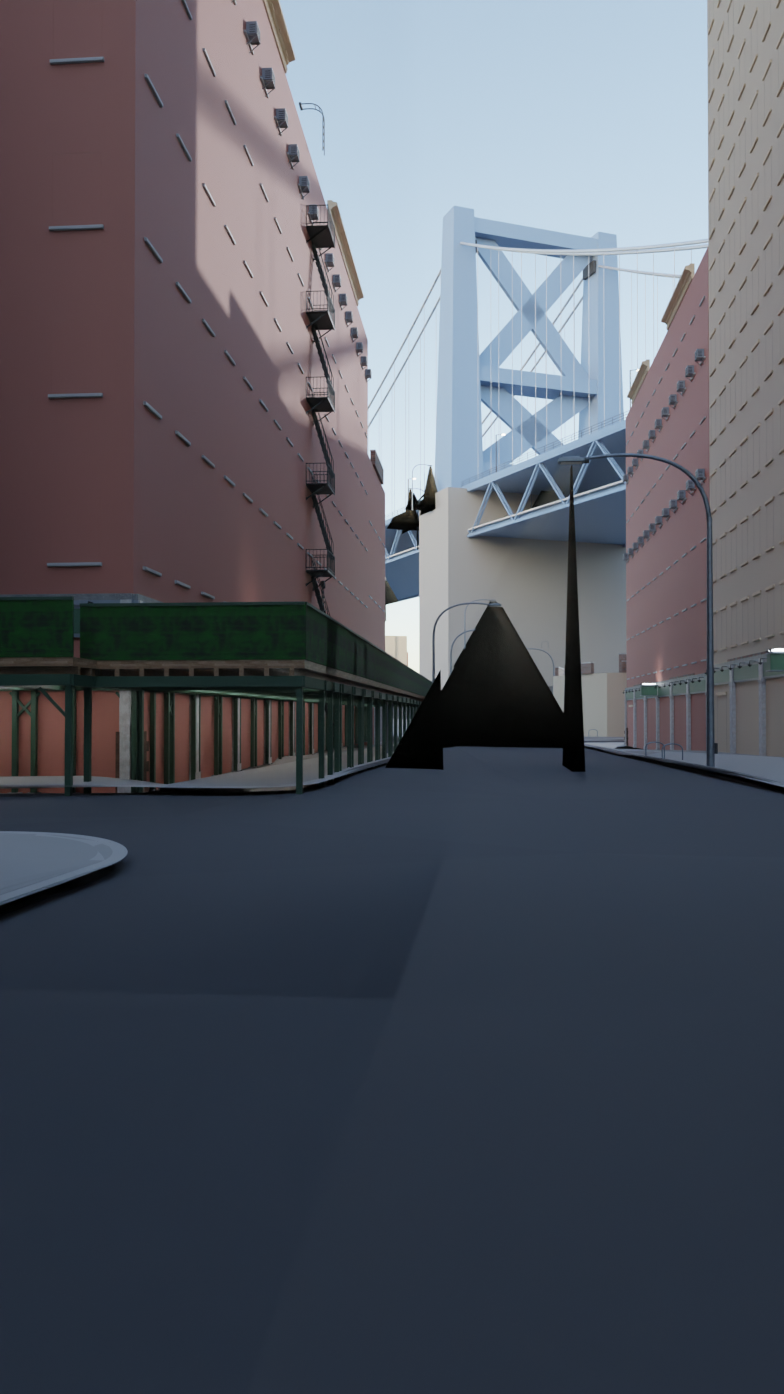
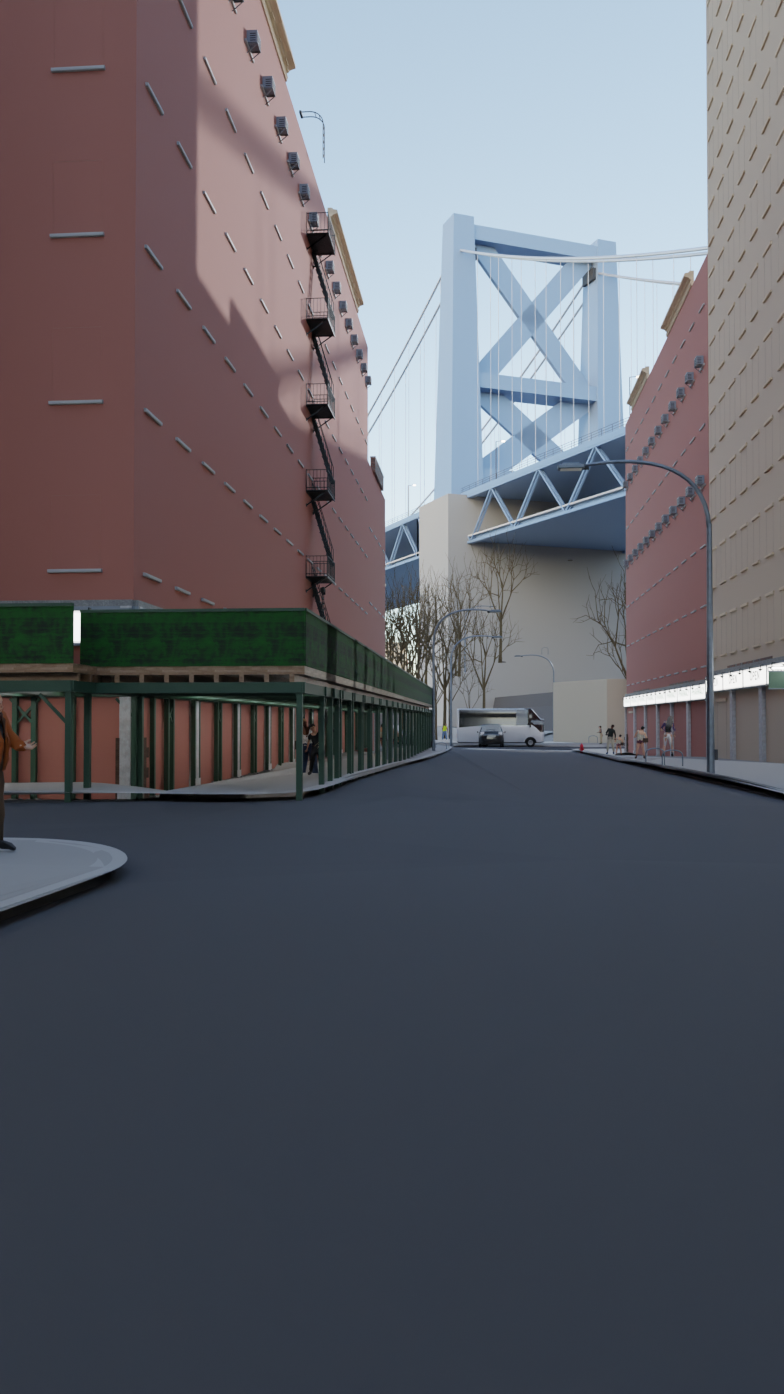
verify: DUMBO, a mandated viewpoint that works, and a correction to I17
Washington Street framing the Manhattan Bridge's Brooklyn tower is one of the
seven viewpoints the brief names, and the frame is the thing it is a picture of:
the tower centred in the gap between the warehouse blocks at its recorded 160 m,
truss and portal bracing and suspender cables reading correctly, both bridge
models in the scene, fire escapes down the brick flanks, a sidewalk shed on the
left, a van and a hydrant at the far kerb.  28 mm portrait at azimuth 357.1 deg,
which is what Washington Street runs.  The 223 street trees are bare, correctly -
leaf_off comes from the reference photograph's own date.

The weak half is the lower 45 % of the frame: empty asphalt with no texture and
no markings, where the photograph this view is famous for has cobbles leading the
eye to the tower.  That is the pavement-material gap, not a camera fault.

And the correction: I17 said the 2.6 m object in this camera's view cone was a
zelkova.  It is prop_lamp_cobra_davit_1, a lamp standard.  I took the example
from view_distance's docstring instead of reading this scene's record.  Both are
stepped past by the same rule, which counts only building shells and landmark
models, but the record says which and I should have looked.

Claude-Session: https://claude.ai/code/session_012rCzdfEp56Z5bDvSJLVsiQ

diff --git a/docs/DEVIATIONS.md b/docs/DEVIATIONS.md
@@ -172,7 +172,7 @@ the individual assessments, because together they are the honest answer to "is i
 | B15a | **The 30,381 real business names still do not appear on any sign.** They get a lit *blank* fascia panel. | An instanced kit piece carries one texture, so a single fascia mesh cannot render 30,381 different names; baking them would mean 30,381 unique pieces. The name stays in `awning_text` and DATA_CONTRACTS §6.1.1 now records where a runtime binds it to the `SIGN_FACE` slot. | A runtime text binding, which is engine-side work. Stated as a gap rather than solved, and the honesty line held: bulletin faces are blank vinyl and LED faces carry the pixel matrix of the display hardware and no image, so **no advertising copy was invented anywhere**. |
 | I13a | **The crowd cannot reach a plaza that is not beside a street.** The walkable network is derived from the road segments, so Bethesda Terrace gets **10 pedestrians against roughly eighty in its reference photograph** — and the terrace was not filled to hide it. Two smaller gaps in the same population: **cyclists, e-bike riders, moped riders and pedicab drivers are not drawn at all** (33 dropped in the Fifth Avenue frame alone), because the fleet table's 1.80 m height for `cyclist` is rider-plus-bicycle and the exported body is a 1.10 m bicycle — the rider is not exported, and a riderless bicycle rolling down Fifth Avenue would be worse than none; and **7 of the 18 vehicle classes are exported at a size the fleet table does not publish**, each recorded in `VEHICLE_ASSET_DEVIATIONS` with its measured deviation, with a test that fails both on a new deviation past 5 % and on a recorded row changing quietly. | `GameplayPedSim::buildSidewalks()` offsets road centrelines (H4); a park terrace, a pedestrian plaza and a boardwalk are none. | The planimetric sidewalk and plaza polygons, which are the same fix H4 asks for. The riders need a character body attached to the bicycle asset. |
 | I15 | ~~The agent clearance around the camera is set for "not inside the lens", not for "not filling the frame"~~ — **closed, after a frame turned up that was nothing but an NPC.** `blender/verify/agents.py` uses `CAMERA_CLEAR_PED_M = 1.5` and `CAMERA_CLEAR_VEHICLE_M = 6.0`, and they do exactly what they say — no agent stands inside those radii. On `drive_bronx_grand_concourse` the result is that the right third of a portrait frame is the backs of four people: measured against that camera (42.2° horizontal, azimuth 25.0°), one pedestrian sits at **1.50 m and 27.9° off axis — one centimetre above the cut-off** — and the nearest one actually in frame is at **2.57 m, 21.0° off axis**, with more at 3.39 m and 4.41 m. At a 1.6 m eye and a 42° lens a body at 2.57 m fills about a third of the frame height. | The rule was written to stop an agent being rendered inside the camera, which is a rendering question, and it answers that correctly. A comparison sheet needs a different question answered — whether a person dominates the frame — and nothing asks it. It was invisible until this pass because an empty scene cannot have anyone standing in it. | **`drive_midtown_sixth_ave_45th` settled it: the nearest pedestrian stood at 1 m and the frame was one NPC's torso — no street, no buildings, no Sixth Avenue.** A person at 1 m subtends **261 %** of frame height at this set's 1.6 m eye and 38° vertical field. `CAMERA_CLEAR_PED_M` is now **3.5 m**, derived from the frame rather than picked: the frame is `0.69 × d` metres tall, a 1.8 m body fills all of it at 2.6 m, and 3.5 m puts it at 74 % — close, which a street photograph often is, without being the whole picture. `CAMERA_CLEAR_PED_BASIS` records the body height, field of view and frame share it came from, so a different lens re-derives it instead of re-guessing, and a test asserts the constant still matches its own basis and can only ever tighten. It stays a radius rather than a forward wedge because the placement runs before the final view azimuth is known. **And the constant was only half of it.** The re-render reported *no* pedestrian dropped over the observer on `drive_bronx_grand_concourse` while four still stood between 1.44 m and 2.57 m of the lens — because `add_agents` measures from the point the scene was built around, and the camera had moved 5.39 m since. Measured across the set, **26 of the 57 scenes have the camera away from the scene centre**: 5.4 m here, 11 m on Arthur Avenue, **166 m on One World Trade Center**, where `probe_origin` switched from the photograph's GPS to the nominal viewpoint. The clearance was guarding a point that in half the set is not where the camera ends up. `agents.cull_near_camera` now runs after the camera is final, removes what the placement could not know about, and folds the count into the same `dropped` keys so a reader sees one number per cause; a test asserts it uses the same radii as the placement and runs *after* `clear_of_geometry`. The cost is a fourth re-run of the pass. |
-| I17 | **The camera clearance test measures a ray, and a frame is not a ray.** `camera.view_distance` casts one line along the view azimuth at eye height and reports how far it runs before a building shell stops it; `min_view_m` accepts the viewpoint on that number. `drive_queens_bayside` passes it completely — *"the viewpoint is in open air on the ground and the camera was not moved; the nearest solid thing in the view cone is `t_15_7_vinyl_siding` 23.6 m away, and the view azimuth is clear for 150 m"* — and the frame is the blank side wall of a house filling the upper third over an untextured ground plane, with **none of the 73 vehicles, 263 pedestrians or 182 trees in the scene visible**. | The ray is looking down a gap between two houses. It is a correct measurement of a line and it is silent about the rest of the image, which is the part a reader sees. The same shape as every other fault found today: a real number that cannot fail in the way the thing it stands for can. | A coverage measure rather than a distance: sample the frame — a coarse grid of rays through the actual view frustum — and require some share of it to reach beyond a minimum distance, so a camera facing a wall through a slot is rejected however clear the slot is. Cheap, since the scene is already built when the check runs. **Scale, measured rather than guessed, and it is not 12 broken sheets:** across the 55 scenes with a clearance record, **12 have the ray clear for the full 150 m probe while something solid stands within 30 m of the lens**, and only 2 within 10 m. That signature is *not* by itself a fault — on `landmark_nypl` the thing 18.9 m away is the library, on `times_square_duffy_south_day` at 23.6 m it is the TKTS booth, and on `dumbo_washington_st_manhattan_bridge` the 2.6 m object is the zelkova the view rule deliberately looks past. It becomes a fault when the near object is not the subject, which the clearance record has no way to say. Bayside is that case; deciding which of the other 11 are needs the frames, not the record. |
+| I17 | **The camera clearance test measures a ray, and a frame is not a ray.** `camera.view_distance` casts one line along the view azimuth at eye height and reports how far it runs before a building shell stops it; `min_view_m` accepts the viewpoint on that number. `drive_queens_bayside` passes it completely — *"the viewpoint is in open air on the ground and the camera was not moved; the nearest solid thing in the view cone is `t_15_7_vinyl_siding` 23.6 m away, and the view azimuth is clear for 150 m"* — and the frame is the blank side wall of a house filling the upper third over an untextured ground plane, with **none of the 73 vehicles, 263 pedestrians or 182 trees in the scene visible**. | The ray is looking down a gap between two houses. It is a correct measurement of a line and it is silent about the rest of the image, which is the part a reader sees. The same shape as every other fault found today: a real number that cannot fail in the way the thing it stands for can. | A coverage measure rather than a distance: sample the frame — a coarse grid of rays through the actual view frustum — and require some share of it to reach beyond a minimum distance, so a camera facing a wall through a slot is rejected however clear the slot is. Cheap, since the scene is already built when the check runs. **Scale, measured rather than guessed, and it is not 12 broken sheets:** across the 55 scenes with a clearance record, **12 have the ray clear for the full 150 m probe while something solid stands within 30 m of the lens**, and only 2 within 10 m. That signature is *not* by itself a fault — on `landmark_nypl` the thing 18.9 m away is the library, on `times_square_duffy_south_day` at 23.6 m it is the TKTS booth, and on `dumbo_washington_st_manhattan_bridge` the 2.6 m object is `prop_lamp_cobra_davit_1`, a lamp standard, which `view_distance` steps past by design because it counts only building shells and landmark models. It becomes a fault when the near object is not the subject, which the clearance record has no way to say. Bayside is that case; deciding which of the other 11 are needs the frames, not the record. |
 | I16 | **The renders are physically lit and the photographs are metered, so every shaded frame compares under-exposed.** The render places the Sun from the photograph's own EXIF instant and then applies a fixed 0-stop exposure on a Filmic transform; the photographer's camera metered the scene in front of it and opened up. On `drive_lower_manhattan_stone_st` — a narrow alley under a 58.6° sun — the render's mean luminance is **0.249 against the photograph's 0.404**, and the area above 0.95 is **0.02 % against 14.66 %**. | Nothing is wrong with the lighting model, and this was nearly written up as an emissive-calibration bug before it was measured: the first reading was that the lit shopfront fascias were blowing out, and in fact nothing in the frame clips at all — they only look bright because everything around them is dark. The two images answer different questions, and the sheets say so rather than treating the gap as a fidelity failure. | An auto-exposure that meters the rendered frame the way a camera would, applied per scene and recorded in `render.json` beside the 0-stop default so a reader can tell a metered frame from a physical one. The night frame already does a hand-tuned version of this (`NIGHT_EXPOSURE_STOPS = −1.25`, calibrated against its own photograph's histogram), which is the argument that the general case is worth doing properly rather than per frame. |
 | I14 | **27 of the 57 comparison cameras stand on the carriageway, 24 of them at 1.6 m — standing in live traffic.** Audited by the DoITT pavement polygon under each eye point and shipped as `docs/verification/comparison/camera_surface_audit.json`: roadbed 24, sidewalk 19, crosswalk 3, plaza 3, and 8 on no paved polygon at all (bridge deck, ferry deck, promenade, park path). No camera is inside a building. The three that stand over the roadway rather than in it — Duffy Square at 6.2 m on the TKTS steps, the High Line at 10.7 m, Top of the Rock at 260.7 m — are where they belong. | The camera search optimises for a clear sight line to the subject, and the middle of the street is where one is. It has never had a rule about what a photographer can stand on, and the reference photographs it is compared against were overwhelmingly taken from the pavement. Until this pass it was also invisible: with no vehicles in the scene, a camera in the roadbed looked exactly like a camera on the kerb. | Constrain the search to sidewalk, crosswalk, plaza and unpaved surfaces, and let a roadbed placement through only where the sheet says why — the three elevated ones would still pass. Not done in this pass because it moves 24 cameras and therefore invalidates 24 sheets and their written assessments for a second time in one day. |
 | I12 | **Seven of the 57 sheets compared two halves that did not show the same subject; six are fixed and the assumption behind them is gone, but three faults of the same family remain.** Both mandated Fifth Avenue viewpoints now compare views of the same street in the same direction, which is what unblocked two of the nine. | One assumption ran through all seven: the chooser's only evidence that a photograph was *of* something was its association with a *place*. Four rules replace it — subject terms matched against title and description and **never** categories, a `not_of` list on the title, a term preceded by a house number not counting ("325 Fifth Avenue" is a building, not the avenue), and an LCCN in the file name marking an archival scan. That last one caught a **c.1900 photochrom** serving as the Fifth Avenue reference: the only date its metadata carries is the date it was digitised, so it read as 2018. Exactly 1 of the 519 photographs was affected. Revalidated over all 172 subjects with a dry run before every change: **six items moved and nothing else**. ADR-020 turned out not to forbid any of it — it governs keeping the photographs tracked, not how they are chosen. | **Three faults remain, recorded rather than churned.** (1) The chooser still establishes no view *direction*: a photograph looking the wrong way along the right street still passes. (2) `drive_bronx_grand_concourse` is the weakest sheet in the set — Commons has almost nothing free looking along that boulevard near East 165th Street, so its reference is of the right street 3.9 km away. (3) The Washington Square Arch item's recorded `subject` coordinate sits 15.0 m from the Arch model's own origin, which at 39 m aims the render 15.8° off the thing it is a picture of; aiming at the nearest landmark model instead was measured across the 43 subjects with one in range and **rejected**, because it swings 10 of them by more than 10° — including 174.8° for the Vessel and 174.3° for the Paramount Building, where the nearest model is a multi-building model whose origin is not the subject. A per-subject aim point is a pass of its own, and so is auditing the 73 of 138 point-subject items whose keywords leave part of their subject name unrequired. |

diff --git a/docs/verification/comparison/dumbo_washington_st_manhattan_bridge/assessment.md b/docs/verification/comparison/dumbo_washington_st_manhattan_bridge/assessment.md
@@ -12,6 +12,30 @@
 
 **Verdict — the right street, the right walls and the right bridge in the right place — and the bridge is a plain blue box truss where the photograph is a riveted Beaux-Arts portal, so the one thing the view exists for is the thing least well modelled**
 
+## Re-rendered 2026-09-07 — a mandated viewpoint, and it is recognisable
+
+Washington Street framing the Manhattan Bridge's Brooklyn tower is one of the seven viewpoints the
+brief names, and this frame is the thing it is a picture of. The tower stands centred in the gap
+between the warehouse blocks at its recorded 160 m, with the truss, the portal bracing and the
+suspender cables reading correctly; `b_manhattan_bridge` and `b_brooklyn_bridge` are both in the
+scene. The brick blocks flank it with their fire escapes zig-zagging down, a sidewalk shed runs along
+the left frontage, a white van stands at the far kerb and a hydrant beside it. 28 mm on a portrait
+frame, azimuth 357.1° — very nearly due north, which is what Washington Street runs.
+
+The street trees are **bare**, correctly: `leaf_off` is set from the reference photograph's own date,
+so the 223 trees here carry the kit's winter variants.
+
+**What is weak is the bottom half of the frame.** The eye is 1.6 m over a roadway at z 5.07 m and
+the lens is portrait, so roughly the lower 45 % is empty asphalt with no texture and no markings.
+The real photograph of this view is famous partly for the cobbled street leading the eye to the
+tower; here the street is a flat grey plane. That is the pavement-material gap, not a camera fault.
+
+**And a correction to something I wrote an hour ago.** In deviation I17 I said the 2.6 m object in
+this camera's view cone was a zelkova, taking the example from `view_distance`'s docstring rather
+than from this scene's own record. It is `prop_lamp_cobra_davit_1`, a lamp standard. Both are stepped
+past by the same rule — it counts only building shells and landmark models — but the record says
+which, and I should have read it.
+
 ## What matches
 
 * The camera stands on the photograph's own EXIF GPS, 35 m from the item's nominal viewpoint, which is what put it on Washington Street's roadbed rather than on Water Street. Before that correction this frame was a picture of a brick wall.
